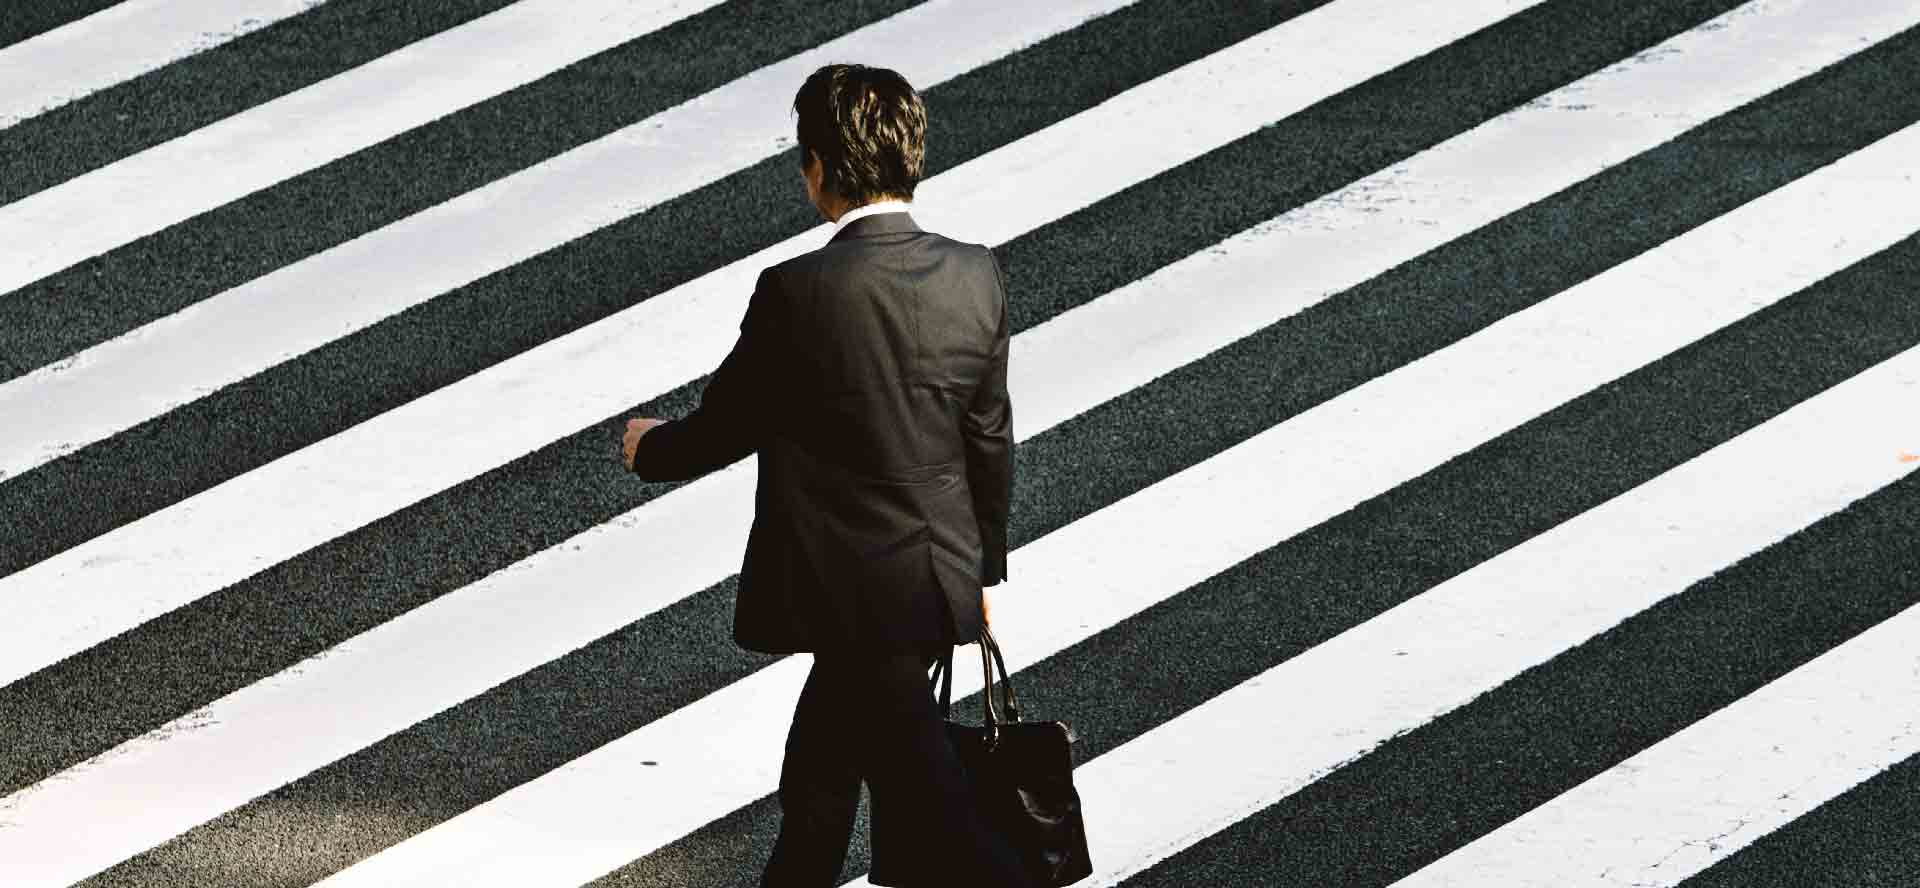
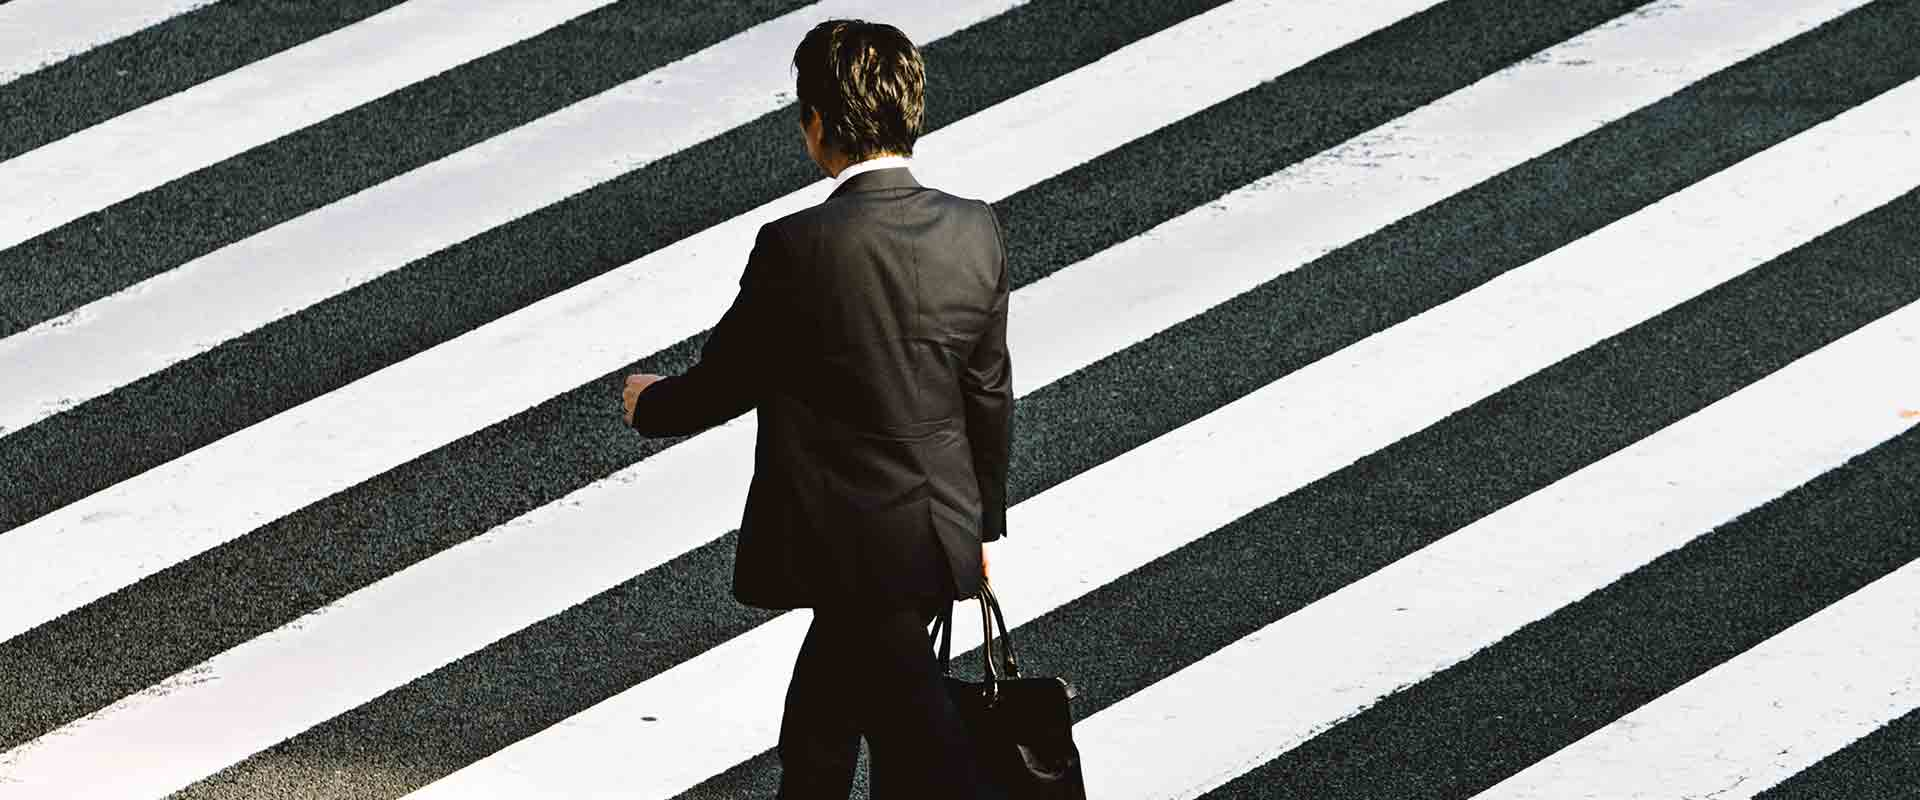
Improved code

diff --git a/assets/style-min.css b/assets/style-min.css
@@ -1,1 +1,1 @@
-@import url('https://fonts.googleapis.com/css2?family=Inter&family=Spectral:ital,wght@0,400;1,300;1,400;1,800&display=swap');*{font-family:'Inter',sans-serif;font-style:normal;margin:0;padding:0;box-sizing:border-box;}.top-header{background-color:white;position:sticky;top:0;z-index:1000;display:flex;justify-content:space-between;padding-inline:100px;padding-block:30px;align-items:center;}.top-header .name{font-size:26px;}.nav ul{display:flex;list-style-type:none;font-size:14px;margin-bottom:0;}.nav li{padding-inline:10px;}.nav a{text-decoration:none;color:#000}.social-link img{width:20px;}#about{display:flex;background-color:#F6D2B8;padding-inline:100px;padding-block:100px;position:relative;}.picture.left::before{content:' ';background-color:#E5975F;width:374px;height:329px;position:absolute;bottom:0;left:0;z-index:-1;}.picture{flex:1;margin:0 20px;z-index:0;}.picture img{width:100%;}.carousel-item img{width:100%;height:auto;}#about-me{flex:2}.about-me__title{margin-top:1em;margin-bottom:60px;font-size:30px;}.about-me__introduction{font-family:'Spectral',sans-serif;font-weight:800;font-style:italic;width:60%;}#about-me p{width:80%;font-size:14px;}.title{text-align:center;padding-block:2em;}.gallery .nav{justify-content:center;}.nav-pills .nav-link.active,.nav-pills .show>.nav-link{color:#fff;background-color:#1B5F6F;border-radius:0;}.nav-link:hover{cursor:pointer;}.nav-pills .nav-link{color:#000}.item-column{position:relative;margin-bottom:0!important;padding:0;}.item-column::after{content:"";display:block;padding-bottom:100%;}.gallery-item{position:absolute;width:100%;height:100%;object-fit:cover;padding:.5em;}.mg-prev,.mg-next{width:30px;height:30px;border-radius:00%;justify-content:center;align-items:center;display:flex;font-size:24px;}.quote{font-family:'Spectral',sans-serif;font-style:italic;width:70%;margin:auto;padding-block:3em;}.quote__text{font-family:Spectral;font-style:italic;font-weight:300;}.quote__author{font-family:'Spectral',sans-serif;font-weight:800;font-size:22px;}#services{margin:auto;background-color:#A8D5D8;position:relative;}#services .container::before{content:' ';background-color:#1C6474;position:absolute;width:100%;height:30%;bottom:0;left:0;z-index:0;}#services .container{justify-content:space-between;display:flex;padding:2em 0;}.service{background-color:white;max-width:390px;width:30%;height:337px;padding:1em;display:flex;flex-direction:column;justify-content:space-between;z-index:1;}#contact{margin:auto;background-color:#D8D3A8;position:relative;padding-inline:100px;padding-block:100px;}#contact .container{display:flex;}.form-container{flex:2;}form{display:flex;flex-direction:column;width:70%;align-items:flex-start;}form input{width:100%;background-color:transparent;border:solid 1px;height:2.5em;margin-bottom:20px;}form textarea{width:100%;background-color:transparent;border:solid 1px;height:5em;line-height:2.5em;font-size:1.2em;margin-bottom:20px;}input[type="submit"]{background-color:#BEB45A;padding:.5em 1em}@media all and (max-width:1180px){.picture{flex:2}#about,#contact .container{align-items:center}.about-me__title{margin-top:0;margin-bottom:1em}#about-me h6,#about-me p{width:100%}}@media all and (max-width:1000px){#about{flex-direction:column}.picture{width:50%}.picture.left::before{width:100%;height:30%;position:absolute;bottom:auto;top:0;left:0;z-index:-1}.about-me__title{text-align:center;margin-top:1em}#services .container,#contact .container{flex-direction:column}.service{width:100%;max-width:100%;height:auto;margin:2em 0}.service__description{margin-bottom:1em}#services .container::before{width:30%;height:100%;bottom:0;right:0;left:auto;z-index:0}#contact .picture.right{margin-top:1em}.picture.right::before{width:100%;height:30%;position:absolute;bottom:0;right:0;z-index:-1}}@media all and (max-width:650px){.top-header{flex-direction:column;padding-inline:0}.top-header .nav,.top-header .nav ul{width:100%;padding:0 0 0 0}.top-header .nav li{flex:1;padding-block:1em;text-align:center}.picture.left::before,.picture.right::before{height:150px}#services .container{align-items:center}.service{max-width:90%}#about,#contact{padding-inline:2em;padding-block:2em}form{width:100%}.picture{width:80%}}
+@import url('https://fonts.googleapis.com/css2?family=Inter&family=Spectral:ital,wght@0,400;1,300;1,400;1,800&display=swap');*{font-family:'Inter',sans-serif;font-style:normal;margin:0;padding:0;box-sizing:border-box;}body{max-width:1920px;margin:auto;}.top-header{background-color:white;position:sticky;top:0;z-index:1000;display:flex;justify-content:space-between;padding-inline:100px;padding-block:30px;align-items:center;}.top-header .name{font-size:26px;}.nav ul{display:flex;list-style-type:none;font-size:14px;margin-bottom:0;}.nav li{padding-inline:10px;}.nav a{text-decoration:none;color:#000}.social-link img{width:20px;}#about{display:flex;background-color:#F6D2B8;padding-inline:100px;padding-block:100px;position:relative;}.picture.left::before{content:' ';background-color:#E5975F;width:374px;height:329px;position:absolute;bottom:0;left:0;z-index:-1;}.picture{flex:1;margin:0 20px;z-index:0;}.picture img,.carousel-item img{width:100%;}#about-me{flex:2}.about-me__title{margin-top:1em;margin-bottom:60px;font-size:30px;}.about-me__introduction{font-family:'Spectral',sans-serif;font-weight:800;font-style:italic;width:60%;}#about-me p{width:80%;font-size:14px;}.title{text-align:center;padding-block:2em;}.gallery .nav{justify-content:center;}.nav-pills .nav-link.active,.nav-pills .show>.nav-link{color:#fff;background-color:#1B5F6F;border-radius:0;}.nav-link:hover{cursor:pointer;}.nav-pills .nav-link{color:#000}.item-column{position:relative;margin-bottom:0!important;padding:0;}.item-column::after{content:"";display:block;padding-bottom:100%;}.gallery-item{position:absolute;width:100%;height:100%;object-fit:cover;padding:.5em;}.mg-prev,.mg-next{width:30px;height:30px;border-radius:00%;justify-content:center;align-items:center;display:flex;font-size:24px;}.quote{font-family:'Spectral',sans-serif;font-style:italic;width:70%;margin:auto;padding-block:3em;}.quote__text{font-family:Spectral;font-style:italic;font-weight:300;font-size:2.5rem;}.quote__author{font-family:'Spectral',sans-serif;font-weight:800;font-size:22px;}#services{margin:auto;background-color:#A8D5D8;position:relative;}#services .container::before{content:' ';background-color:#1C6474;position:absolute;width:100%;height:30%;bottom:0;left:0;z-index:0;}#services .container{justify-content:space-between;display:flex;padding:2em 0;}.service{background-color:white;max-width:390px;width:30%;height:337px;padding:1em;display:flex;flex-direction:column;justify-content:space-between;z-index:1;}#contact{margin:auto;background-color:#D8D3A8;position:relative;padding-inline:100px;padding-block:100px;}#contact .container{display:flex;}.form-container{flex:2;}form{display:flex;flex-direction:column;width:70%;align-items:flex-start;}form input{width:100%;background-color:transparent;border:solid 1px;height:2.5em;margin-bottom:20px;}form textarea{width:100%;background-color:transparent;border:solid 1px;height:5em;line-height:2.5em;font-size:1.2em;margin-bottom:20px;}input[type="submit"]{background-color:#BEB45A;padding:.5em 1em}@media all and (max-width:1180px){.picture{flex:2}#about,#contact .container{align-items:center}.about-me__title{margin-top:0;margin-bottom:1em}#about-me h6,#about-me p{width:100%}}@media all and (max-width:1000px){#about{flex-direction:column}.picture{width:50%}.picture.left::before{width:100%;height:30%;position:absolute;bottom:auto;top:0;left:0;z-index:-1}.about-me__title{text-align:center;margin-top:1em}#services .container,#contact .container{flex-direction:column}.service{width:100%;max-width:100%;height:auto;margin:2em 0}.service__description{margin-bottom:1em}#services .container::before{width:30%;height:100%;bottom:0;right:0;left:auto;z-index:0}#contact .picture.right{margin-top:1em}.picture.right::before{width:100%;height:30%;position:absolute;bottom:0;right:0;z-index:-1}}@media all and (max-width:650px){.top-header{flex-direction:column;padding-inline:0}.top-header .nav,.top-header .nav ul{width:100%;padding:0 0 0 0}.top-header .nav li{flex:1;padding-block:1em;text-align:center}.picture.left::before,.picture.right::before{height:150px}#services .container{align-items:center}.service{max-width:90%}#about,#contact{padding-inline:2em;padding-block:2em}form{width:100%}.picture{width:80%}}

diff --git a/index.html b/index.html
@@ -65,18 +65,17 @@
 			<div class="carousel-inner">
 				<div class="carousel-item active">
 					<img src="./assets/images/slider/1920px/ryoji-iwata-1920px.jpg"
-						class="d-block w-100 auto-size-slide" alt="Homme d'affaires traversant la route"
+						alt="Homme d'affaires traversant la route" loading="lazy"
 						title="Un homme en costume traverse la route">
 				</div>
 				<div class="carousel-item">
 					<img src="./assets/images/slider/1920px/nicholas-green-1920px.jpg"
-						class="d-block w-100 auto-size-slide" alt="Photo du public à un concert" loading="lazy"
-						title="Public lors d'un concert">
+						alt="Photo du public à un concert" loading="lazy" title="Public lors d'un concert">
 				</div>
 				<div class="carousel-item">
 					<img src="./assets/images/slider/1920px/edward-cisneros_1920px.jpg"
-						class="d-block w-100 auto-size-slide" alt="Photo de la première danse à un mariage"
-						loading="lazy" title="Première danse d'un couple à leur mariage">
+						alt="Photo de la première danse à un mariage" loading="lazy"
+						title="Première danse d'un couple à leur mariage">
 				</div>
 			</div>
 			<button class="carousel-control-prev" type="button" data-bs-target="#carouselExampleIndicators"
@@ -98,9 +97,9 @@
 			</div>
 			<div id="about-me">
 				<h2 class="about-me__title">A propos de moi</h2>
-				<h3 class="about-me__introduction">Devenir photographe était pour moi une évidence. Comme si j’y étais
+				<h6 class="about-me__introduction">Devenir photographe était pour moi une évidence. Comme si j’y étais
 					prédestiné. Saisir un moment, une émotion, une situation, un endroit, une lumière et les rendre
-					immortels, voilà ce qui me fait vibrer.</h3>
+					immortels, voilà ce qui me fait vibrer.</h6>
 				<p>Nous passons notre vie à chercher le bonheur, et lorsque nous y touchons, nous n’avons qu’une envie :
 					le figer au travers de photographies pour le savourer avec les personnes qui sont importantes à nos
 					yeux,ou le partager au plus grand nombre. C’est ce que je vous propose : saisir ces merveilleux
@@ -114,7 +113,7 @@
 			<div class="container py-3">
 				<div class="gallery" style="display: none">
 					<img data-gallery-tag="Concert" class="gallery-item"
-						src="./assets/images/gallery/concerts/aaron-paul-wnX-fXzB6Cw-unsplash-464px.jpg"
+						src="./assets/images/gallery/concerts/aaron-paul-concert-380px.jpg"
 						alt="Photo du public lors d'un concert" title="Photo public concert" loading="lazy">
 					<img data-gallery-tag="Entreprises" class="gallery-item"
 						src="./assets/images/gallery/entreprise/ali-morshedlou-WMD64tMfc4k-unsplash-464px.jpg"

diff --git a/assets/style.css b/assets/style.css
@@ -8,6 +8,11 @@
 	box-sizing: border-box;
 }
 
+body {
+	max-width: 1920px;
+	margin: auto;
+}
+
 .top-header {
 	background-color: white;
 	position: sticky;
@@ -69,14 +74,9 @@
 	z-index: 0;
 }
 
-.picture img {
-	width: 100%;
-
-}
-
+.picture img,
 .carousel-item img {
 	width: 100%;
-	height: auto;
 }
 
 #about-me {
@@ -169,6 +169,7 @@
 	font-family: Spectral;
 	font-style: italic;
 	font-weight: 300;
+	font-size: 2.5rem;
 
 }
 
